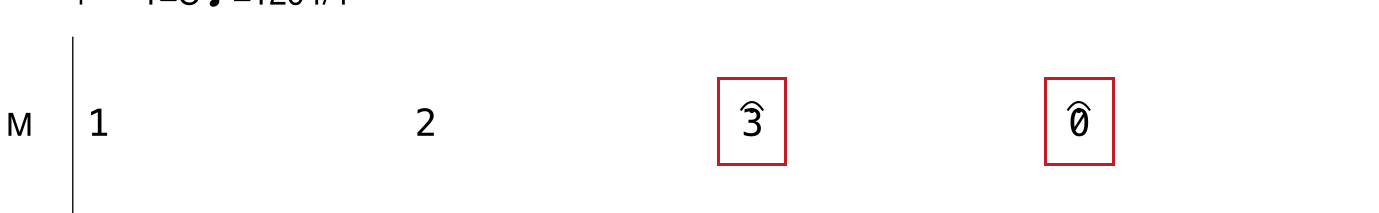
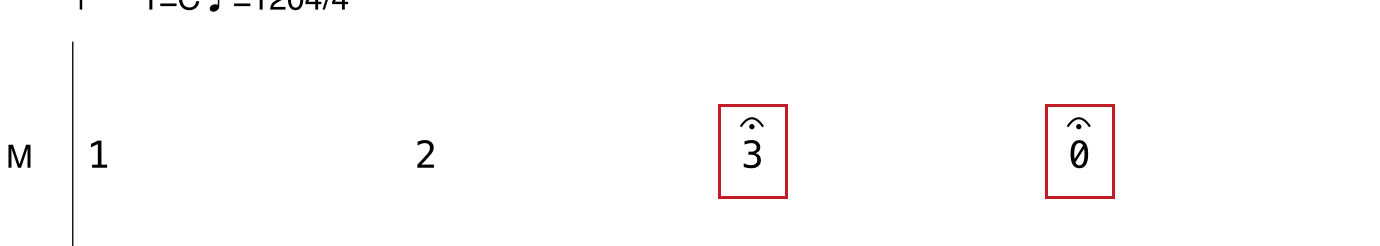
Give fermatas clearance above note heads

diff --git a/src/renderer/new_renderer/glyph_renderers_fermata.rs b/src/renderer/new_renderer/glyph_renderers_fermata.rs
@@ -9,7 +9,9 @@ pub(in crate::renderer::new_renderer) fn render_fermata(
     width: f32,
 ) -> [SvgElement; 2] {
     let center = elem.x + width * 0.5;
-    let y = elem.y - size * (0.68 + 0.3 * f32::from(octave.max(0)));
+    // SVG middle alignment can place the ink above the nominal half-em.
+    // Raise the dot and arc together to leave a visible gap over the glyph.
+    let y = elem.y - size * (1.10 + 0.30 * f32::from(octave.max(0)));
     let half_width = size * 0.30;
     [
         SvgElement {

diff --git a/src/grid_layout/layout_system_bands.rs b/src/grid_layout/layout_system_bands.rs
@@ -69,7 +69,7 @@ impl SystemBands {
     pub(crate) fn fermata_clearance(&self, part_idx: usize, base: f32) -> f32 {
         self.fermata_octaves
             .get(&part_idx)
-            .map_or(0.0, |&octave| base * (0.50 + 0.30 * f32::from(octave)))
+            .map_or(0.0, |&octave| base * (0.92 + 0.30 * f32::from(octave)))
     }
 
     pub(crate) fn has_tuplet_bracket(&self, part_idx: usize) -> bool {
